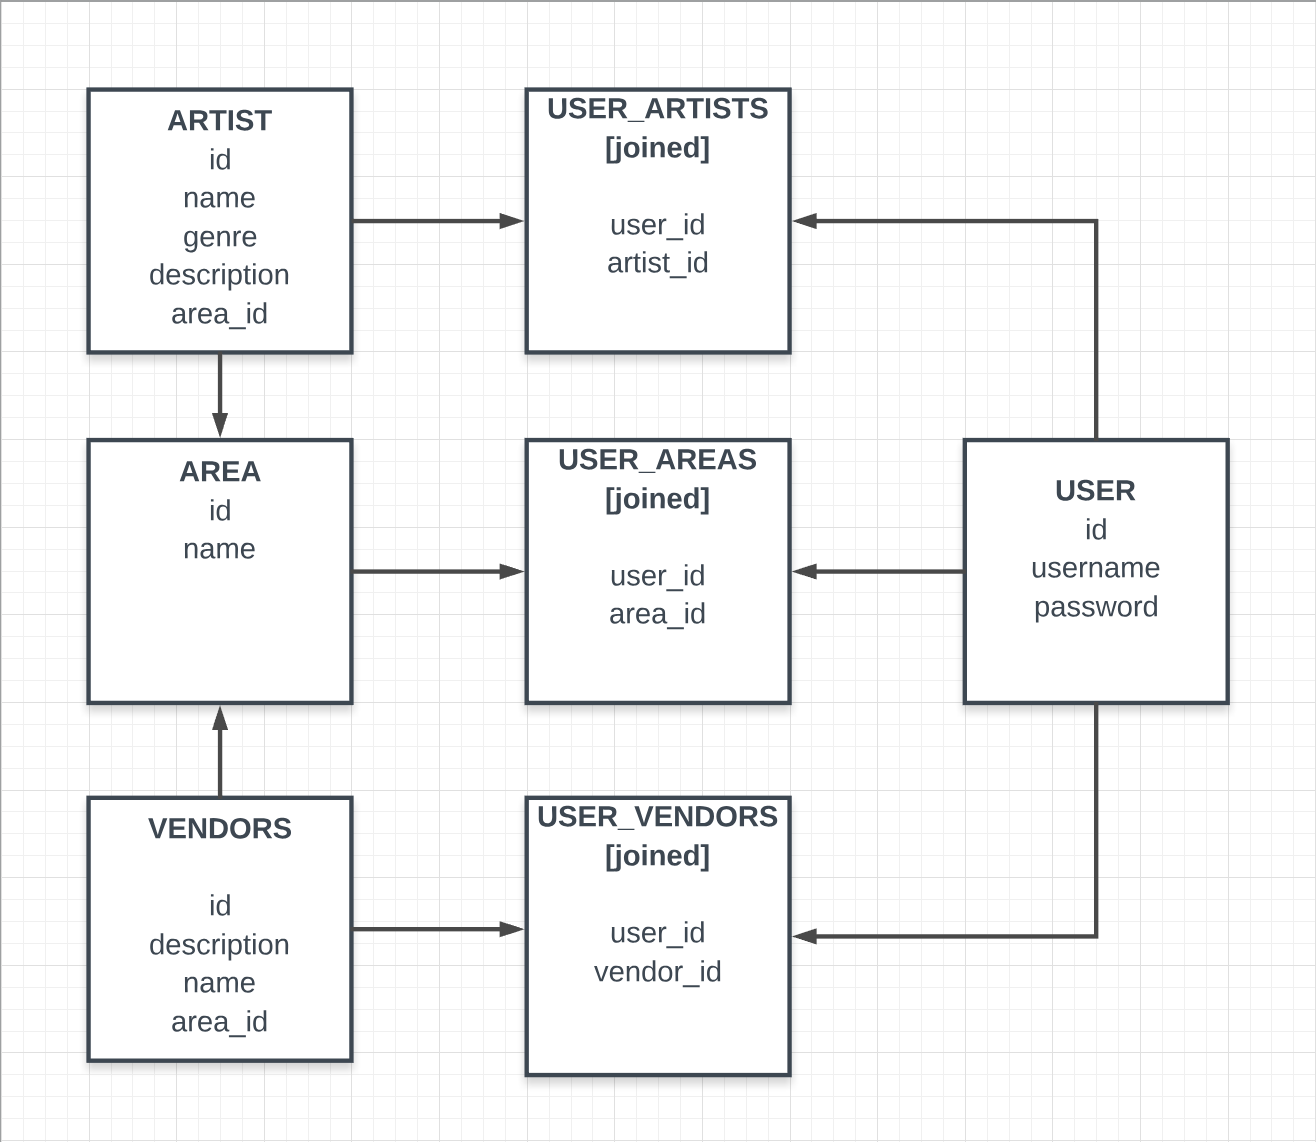
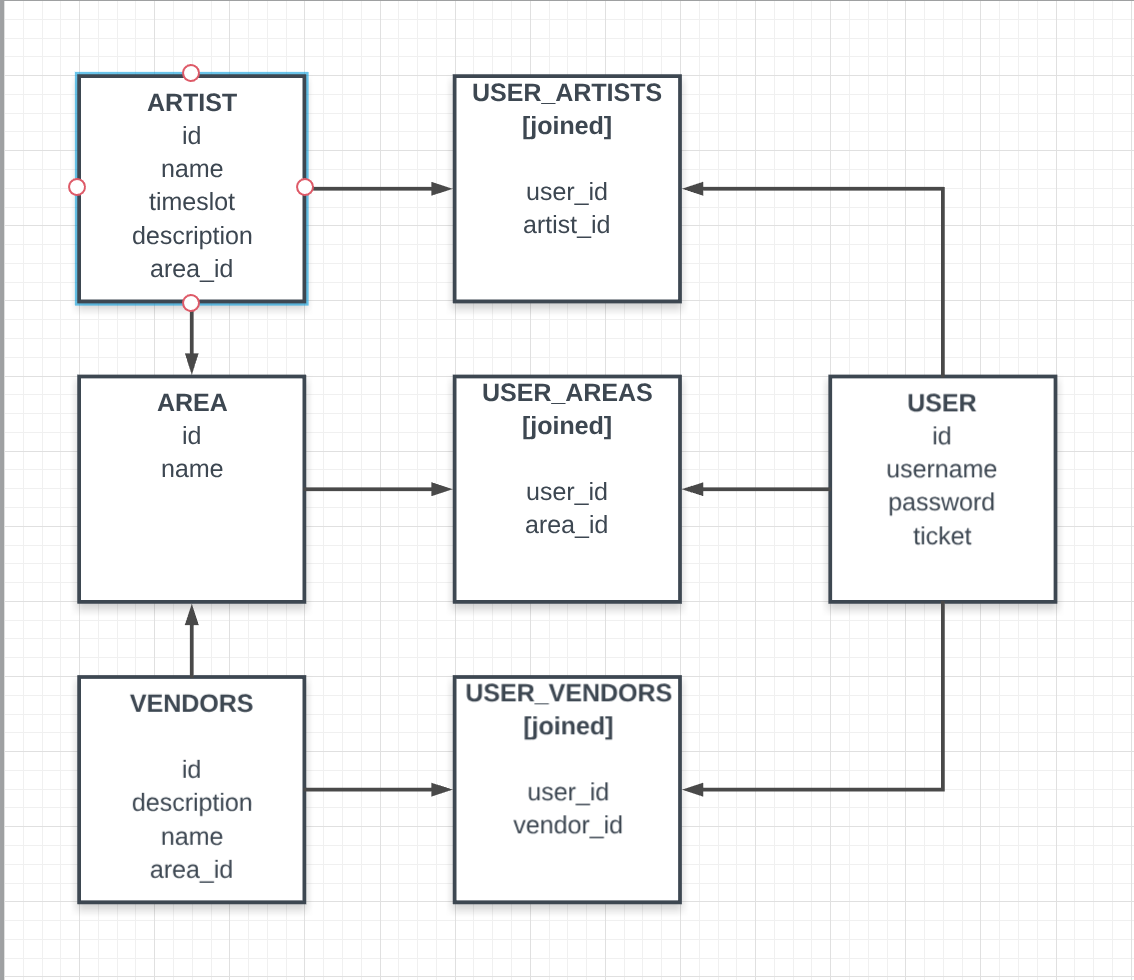
updated readme

diff --git a/README.md b/README.md
@@ -8,3 +8,63 @@ _[fig. 1] Database Format in PostgreSQL_
 The back-end for this project is constructed with _PostgreSQL_ for the database, as well as _Express_ and _Sequelize_ for the server.
 
 Each __area__ has several __artists__, as well as several __vendors__. A given __user__ can save their favorites of any of these categories.
+
+## Views / Component Hierarchy
+
+### MVP
+
+#### Navigation Bar
+- contains _Home_, _Map_, _Artists_, _Vendors_, _Areas_, _Tickets_ as well as a _Login/Register_
+
+#### Artists
+- _ArtistList_: list of _Artist_ components
+- _Artist_: rendered version of _Artist_ entries
+- _ArtistDetail_: modal details about artist
+
+#### Vendors
+- _VendorList_: list of _Vendor_ components
+- _Vendor_: rendered version of _Vendor_ entries
+- _VendorDetail_: modal details about vendor
+
+#### Areas
+- _AreaNav_: nav to switch between different Areas
+- _Area_: Picture, description.
+- _Schedule_: Schedule of different artists (extends ArtistList).
+
+#### Login/Register
+- _Login_: Login option.
+- _Register_: Register option.
+- _RegisterDetail_: Registering Menu
+- _Profile_: User information, tickets bought.
+
+### POST-MVP
+
+#### Map
+- _Map_: Clickable picture that links to different area views.
+
+#### Tickets
+- _Tier_: Details on ticket tiers, upon clicking (if logged in) will take you to cart. Else, it will take you to register.
+
+#### Timeline
+1. Monday
+  1. seed.js
+  2. resetDb.js
+  3. models.js
+  4. server.js
+  5. routes
+    1. Users (artists, vendors, areas)
+    2. Artists
+    3. Vendors
+    4. Areas
+2. Tuesday
+  1. Artists View
+  2. Vendors View
+  3. Area View
+  4. Navigation
+3. Wednesday (MVP)
+  1. Login/Register
+  2. Styling
+4. Thursday
+  1. Map
+  2. Tickets
+  3. Styling
